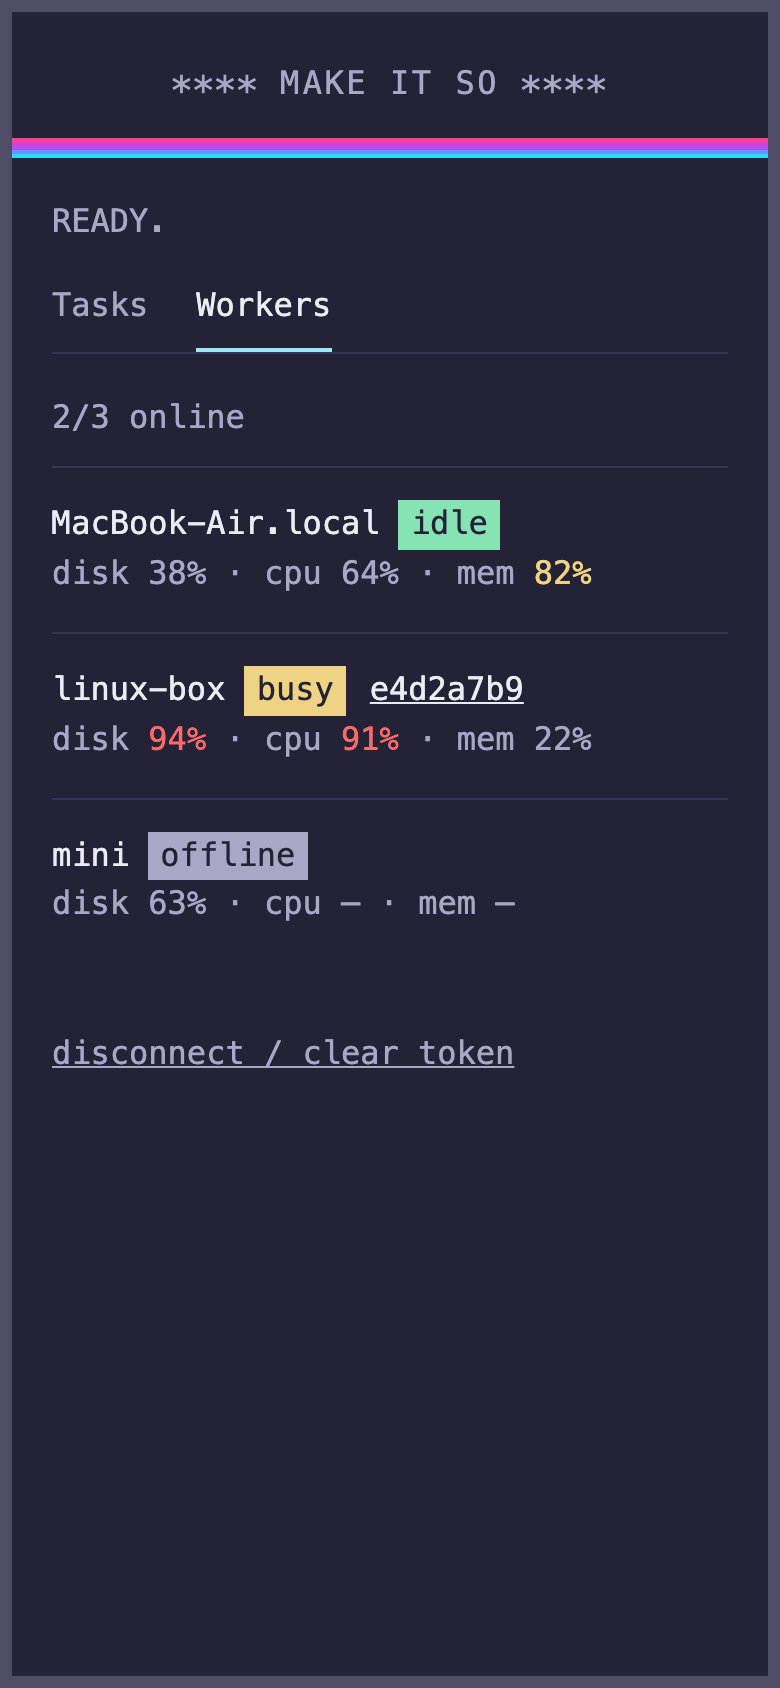
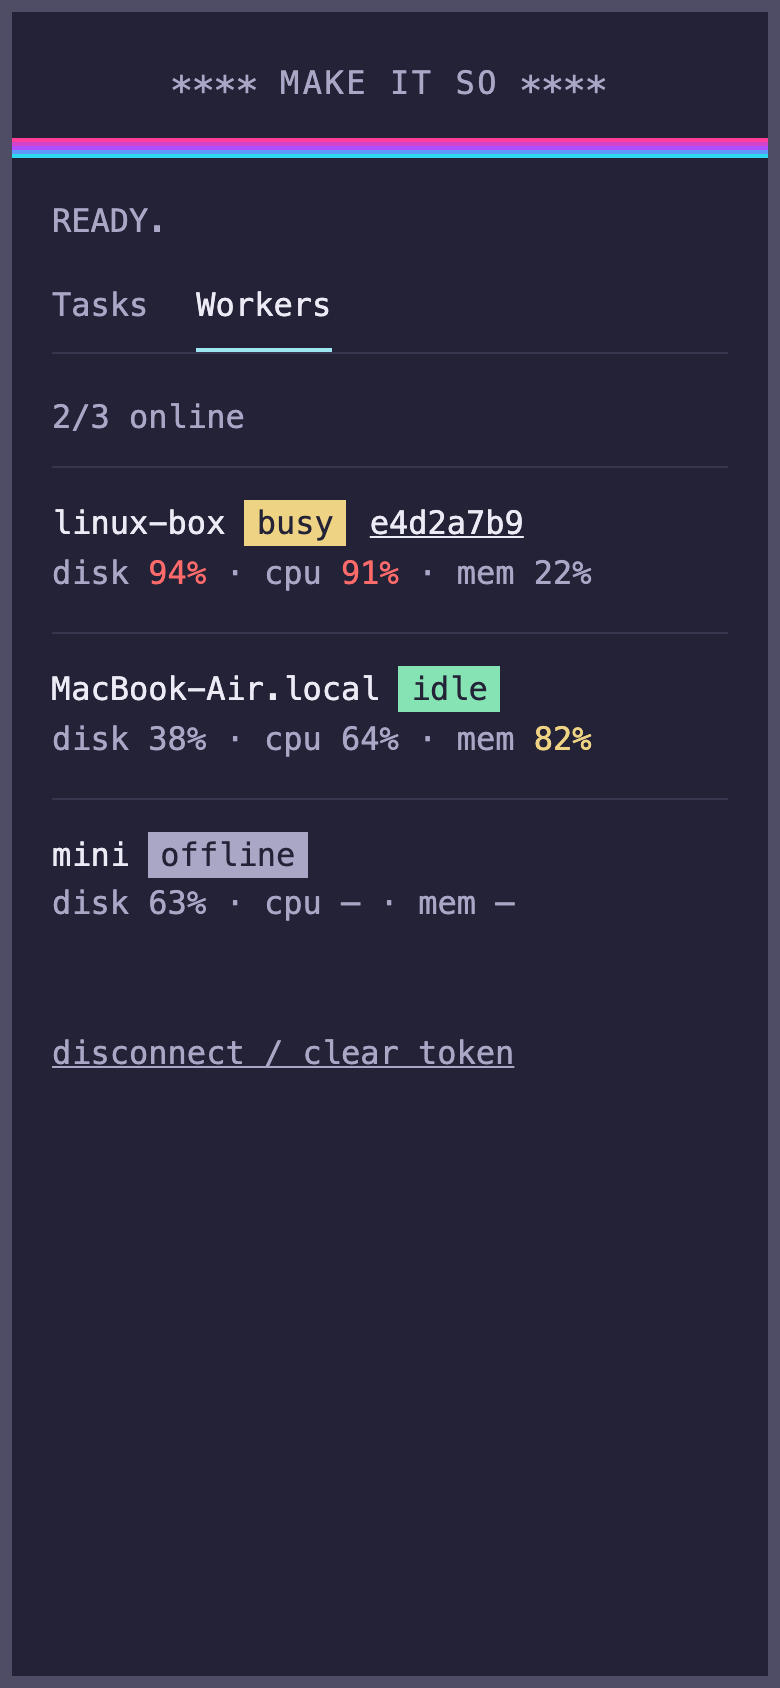
fix(orchestrator): keep focus on streamed events, return to workers, fix WebKit clamp

Changed region(s): [[0.0615, 0.2773, 0.7077, 0.3697], [0.0615, 0.3697, 0.6769, 0.4621], [0.6769, 0.4313, 0.7692, 0.4621]]

diff --git a/crates/mis-orchestrator/static/index.html b/crates/mis-orchestrator/static/index.html
@@ -4,6 +4,8 @@
 <meta charset="utf-8">
 <meta name="viewport" content="width=device-width, initial-scale=1">
 <title>Make It So</title>
+<!-- Quest browser: VR panels are read at arm's length, so `html.vr` enlarges type. In head to avoid a 16px first paint. -->
+<script>if (/OculusBrowser|Quest/.test(navigator.userAgent)) document.documentElement.classList.add('vr');</script>
 <style>
   :root { color-scheme: dark; --page: #141320; --frame: #4F4D66; --screen: #232236; --field: #1C1B2C; --fg: #ECEAF5; --dim: #A9A6C6; --line: #7B7898; --rule: #38364E; --answer: #9DE6F2; --ok: #86E3B4; --bad: #FF9CC2; --run: #EED384; --focus: #5FDDF2; --hot: #FF3D9A; --crit: #FF6B6B;
     --synth: #FF3D9A 0 20%, #D244CC 0 40%, #B04DFF 0 60%, #5F9BFF 0 80%, #2FD8F2 0;
@@ -51,7 +53,8 @@
   .queued { --s: var(--dim); } .running { --s: var(--run); } .done { --s: var(--ok); } .failed { --s: var(--bad); }
   .busy { --s: var(--run); } .idle { --s: var(--ok); } .offline { --s: var(--dim); }
   /* Status in reverse video, like C64 inverse characters. */
-  .chip { display: inline-block; margin-right: .5em; padding: 0 .375em; background: var(--s); color: var(--screen); }
+  /* Inline, not inline-block: WebKit adds a stray ellipsis to line-clamped text holding an inline-block. */
+  .chip { margin-right: .5em; padding: .125em .375em; background: var(--s); color: var(--screen); }
   pre { margin: 0; font: inherit; white-space: pre-wrap; word-break: break-word; }
   .head, .meta, dd { overflow-wrap: anywhere; }
   .answer { margin: .5rem 0 0; padding-left: .875rem; border-left: 2px solid var(--answer); color: var(--answer); }
@@ -139,13 +142,12 @@
 <script>
 'use strict';
 const $ = (id) => document.getElementById(id);
-// Quest browser: VR panels are read at arm's length, so `html.vr` enlarges type.
-if (/OculusBrowser|Quest/.test(navigator.userAgent)) document.documentElement.classList.add('vr');
 const store = {
   get() { try { return localStorage.getItem('mis-token') || ''; } catch { return ''; } },
   set(v) { try { v ? localStorage.setItem('mis-token', v) : localStorage.removeItem('mis-token'); } catch {} },
 };
 let ws = null, authNeeded = false, tasks = [], workers = [], detail = null, retries = 0, retryTimer = 0, statusTimer = 0;
+let from = '#'; // last list view, so a task's back link returns to Workers when opened from there
 
 // Text-only DOM builder: every string becomes a text node, never parsed as HTML.
 function el(tag, props, ...kids) {
@@ -168,7 +170,7 @@ function eventLine(e) {
 }
 
 const short = (id) => id.slice(0, 8);
-const chip = (cls, text) => el('span', { className: `chip ${cls}` }, text);
+const chip = (s) => el('span', { className: `chip ${s}` }, s);
 // Worker stats are optional; anything that isn't a number is unknown (null).
 const num = (v) => (typeof v === 'number' && Number.isFinite(v) ? v : null);
 const pct = (v) => (v === null ? '—' : `${Math.round(v)}%`);
@@ -204,6 +206,8 @@ function render() {
   $('auth').hidden = live || !authNeeded || !!store.get();
   $('tabs').hidden = !live;
   for (const v in views) $(v).hidden = !live || v !== r.view;
+  if (r.view === 'detail') $('detail').querySelector('.back').href = from;
+  else from = location.hash || '#';
   const onWorkers = r.view === 'workers' || r.view === 'machine';
   $('tab-tasks').setAttribute('aria-selected', String(!onWorkers));
   $('tab-workers').setAttribute('aria-selected', String(onWorkers));
@@ -215,7 +219,7 @@ function render() {
 function taskRows(ul, list) {
   ul.replaceChildren(...[...list].reverse().map((t) => el('li', {},
     el('a', { href: `#task/${t.id}` },
-      el('div', { className: 'head clamp2' }, chip(t.status, t.status), t.prompt),
+      el('div', { className: 'head clamp2' }, chip(t.status), t.prompt),
       el('div', { className: 'sub dim' }, [t.harness, t.worker && hostOf(t.worker)].filter(Boolean).join(' · ')),
       t.summary ? el('pre', { className: 'answer clamp3' }, t.summary) : ''))));
   if (!list.length) ul.append(el('li', { className: 'dim' }, 'no tasks yet'));
@@ -233,7 +237,7 @@ function renderDetail(id) {
   const answer = t && t.summary ? t.summary : (t && t.status === 'running' ? 'working…' : '');
   $('answer').textContent = answer;
   $('answer').hidden = !answer;
-  $('meta').replaceChildren(...(t ? [chip(t.status, t.status),
+  $('meta').replaceChildren(...(t ? [chip(t.status),
     [t.harness, t.worker && hostOf(t.worker), t.session && `session ${short(t.session)}`].filter(Boolean).join(' · ')] : []));
   $('ask').textContent = t ? t.prompt : '';
   $('ids').replaceChildren(...(t ? [['task', t.id], ['session', t.session]] : [])
@@ -253,7 +257,7 @@ function renderWorkers() {
   $('machines').replaceChildren(...workers.map((w) => {
     const st = workerState(w), run = runningOn(w.id);
     return el('li', { className: `worker${st === 'offline' ? ' off' : ''}` },
-      el('div', { className: 'head' }, el('a', { href: `#worker/${w.id}`, className: 'open' }, w.info.hostname), ' ', chip(st, st),
+      el('div', { className: 'head' }, el('a', { href: `#worker/${w.id}`, className: 'open' }, w.info.hostname), ' ', chip(st),
         run ? el('a', { href: `#task/${run.id}`, className: 'task' }, short(run.id)) : ''),
       meterLine(w));
   }));
@@ -277,7 +281,7 @@ function renderMachine(id) {
   taskRows(mine, tasks.filter((t) => t.worker === id));
   $('wbody').className = st === 'offline' ? 'off' : '';
   $('wbody').replaceChildren(
-    el('h2', {}, `${w.info.hostname} `, chip(st, st)),
+    el('h2', {}, `${w.info.hostname} `, chip(st)),
     el('dl', {},
       el('dt', {}, 'os'), el('dd', {}, `${w.info.os} ${w.info.arch}`),
       el('dt', {}, 'harnesses'), el('dd', {}, w.info.harnesses.join(', ') || '-'),
@@ -293,7 +297,8 @@ function onMessage(msg) {
   switch (msg.type) {
     case 'status': {
       tasks = msg.tasks;
-      workers = msg.workers;
+      // The server's order is unstable; sort so rows don't jump on refresh.
+      workers = [...msg.workers].sort((a, b) => a.info.hostname.localeCompare(b.info.hostname) || a.id.localeCompare(b.id));
       const harnesses = [...new Set(msg.workers.flatMap((w) => w.info.harnesses))].sort();
       const sel = $('harness'), keep = sel.value;
       sel.replaceChildren(el('option', { value: '' }, 'auto'), ...harnesses.map((h) => el('option', { value: h }, h)));
@@ -309,8 +314,10 @@ function onMessage(msg) {
       }
       break;
     case 'event':
-      if (detail && detail.ready && detail.id === msg.task) detail.lines.push(eventLine(msg.event));
       if (['started', 'finished', 'planned'].includes(msg.event.type)) refreshSoon();
+      // Only an open transcript shows events; re-rendering other views would drop focus.
+      if (!detail || !detail.ready || detail.id !== msg.task) return;
+      detail.lines.push(eventLine(msg.event));
       break;
     case 'error':
       $('conn').textContent = `error: ${msg.message}`;

diff --git a/README.md b/README.md
@@ -96,7 +96,7 @@ and `-._` (e.g. `openssl rand -hex 24`).
 
 ## From your phone
 
-The orchestrator serves a text-only page at `http://<host>:7474/`: task list, submit, transcripts.
+The orchestrator serves a text-only page at `http://<host>:7474/`: tasks (list, submit, transcripts) and workers.
 Open it and paste the token (set `MIS_TOKEN`; without one, only `localhost` pages may connect). To reach
 it from a phone:
 
